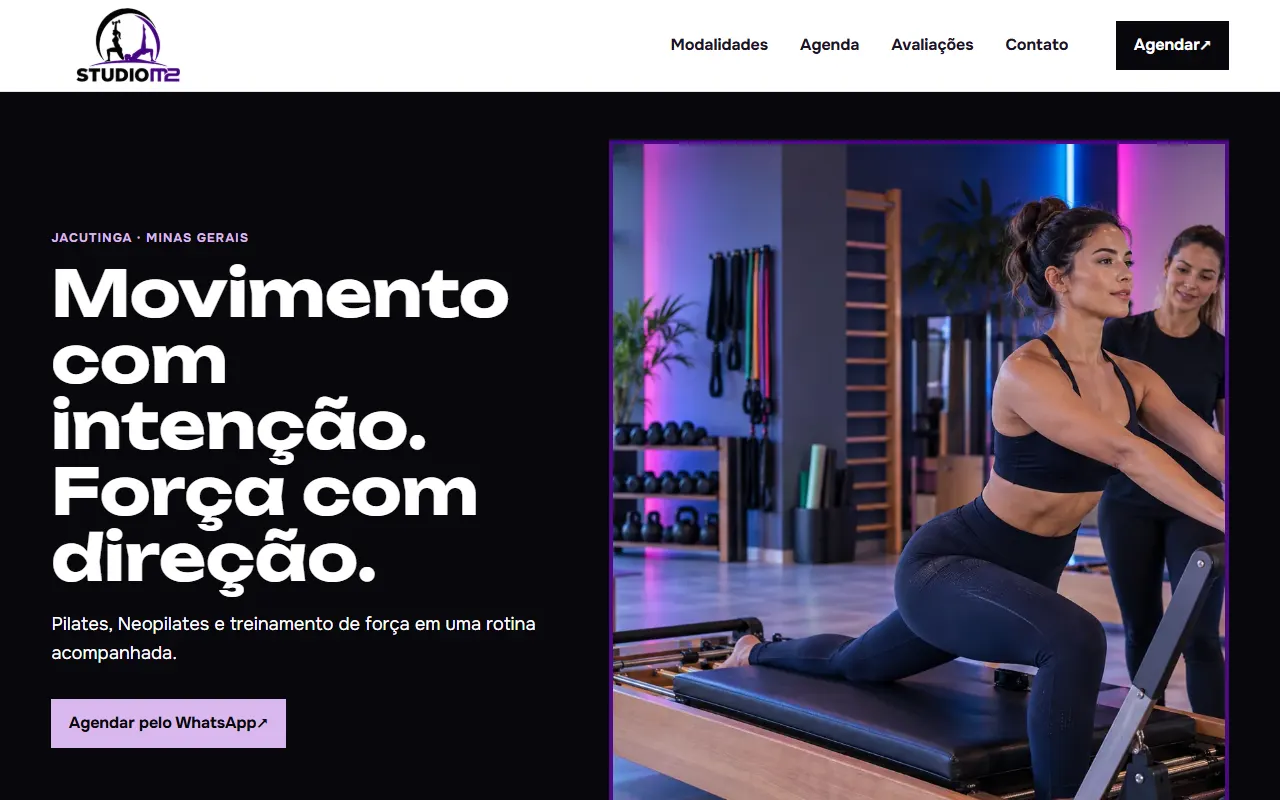
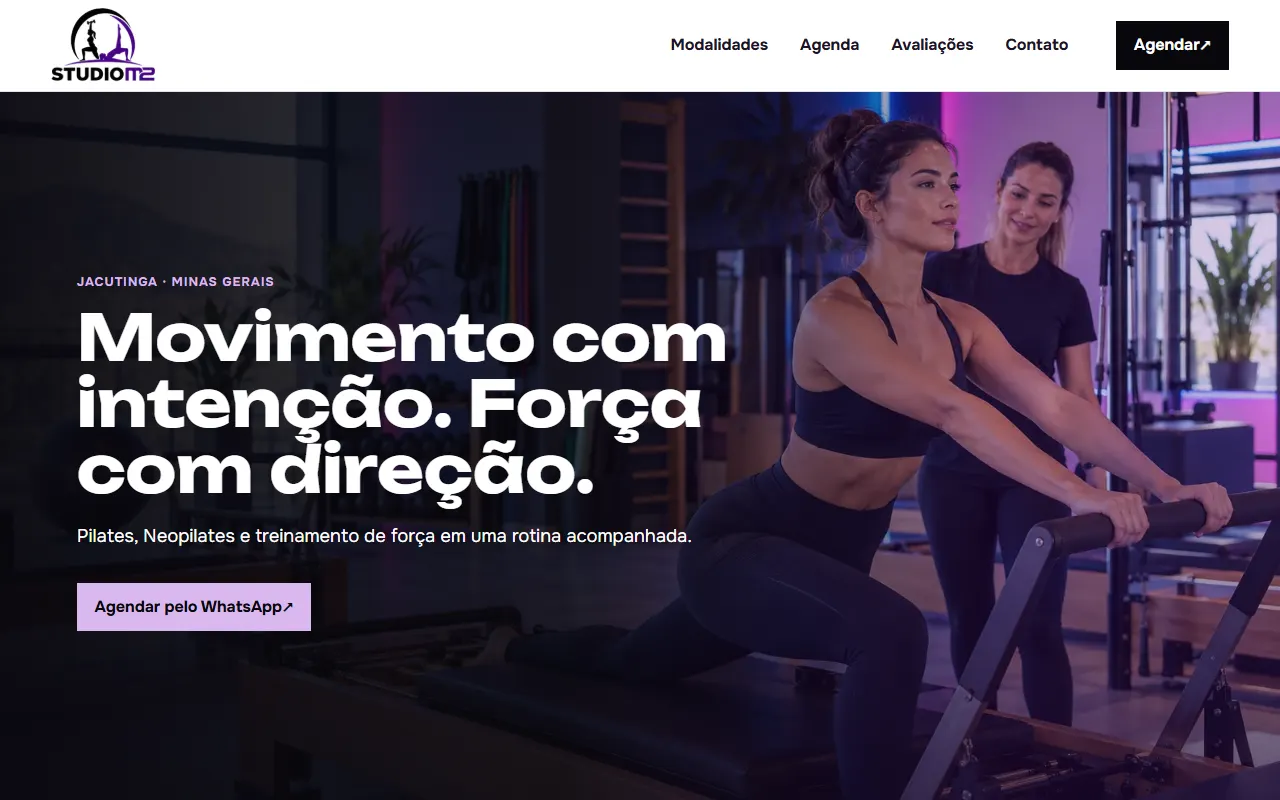
Shift studio pages toward LP column layouts

diff --git a/Site 08 - Clinica Physiopremium Fisioterapia e Pilates/assets/css/style.css b/Site 08 - Clinica Physiopremium Fisioterapia e Pilates/assets/css/style.css
@@ -804,3 +804,81 @@ summary:focus-visible {
     grid-template-columns: 1fr;
   }
 }
+
+/* LP column pass: more like a classic landing page, less horizontal concept split. */
+.hero {
+  min-height: 0;
+  display: grid;
+  grid-template-columns: 1fr;
+  grid-template-rows: auto minmax(360px, 46svh);
+  background: #f7fbfb;
+}
+.hero-copy {
+  width: min(980px, 100%);
+  display: block;
+  padding: clamp(4rem, 7vw, 6rem) max(6vw, 32px) clamp(2rem, 4vw, 3rem);
+}
+.hero h1 {
+  max-width: 12ch;
+}
+.hero-copy > span {
+  max-width: 58ch;
+}
+.hero-visual {
+  min-height: 0;
+  padding: 0 max(6vw, 32px) clamp(2rem, 4vw, 3rem);
+}
+.hero-visual img {
+  object-position: center 45%;
+}
+.award {
+  left: max(8vw, 48px);
+  bottom: clamp(2rem, 4vw, 3rem);
+  width: min(22rem, 44%);
+}
+.credibility {
+  grid-template-columns: repeat(3, 1fr) auto;
+}
+.modalities .section-head {
+  grid-template-columns: 1fr;
+  max-width: 900px;
+  margin-inline: auto;
+  text-align: center;
+}
+.modalities .section-head h2 {
+  margin-inline: auto;
+}
+@media (max-width: 900px) {
+  .hero {
+    grid-template-rows: auto minmax(320px, 38svh);
+  }
+  .hero-visual {
+    padding-inline: 1.4rem;
+  }
+  .award {
+    left: 2rem;
+    width: min(19rem, calc(100% - 4rem));
+  }
+  .credibility {
+    grid-template-columns: 1fr 1fr;
+  }
+}
+@media (max-width: 560px) {
+  .hero {
+    grid-template-rows: auto minmax(280px, 34svh);
+  }
+  .hero-copy {
+    padding: 3rem 1.4rem 1.5rem;
+  }
+  .hero-visual {
+    padding-bottom: 1.4rem;
+  }
+  .award {
+    left: 2rem;
+    right: 2rem;
+    width: auto;
+  }
+  .credibility {
+    grid-template-columns: 1fr;
+  }
+}

diff --git a/Site 03 - Espaço Saúde Jessica Drey/assets/css/style.css b/Site 03 - Espaço Saúde Jessica Drey/assets/css/style.css
@@ -105,3 +105,76 @@
     grid-column:auto;
   }
 }
+
+/* LP column pass: closer to Sites 01/10, with a vertical sales narrative. */
+.hero{
+  min-height:calc(100svh - 86px);
+  display:flex;
+  align-items:center;
+  background:var(--plum);
+}
+.hero-media{
+  position:absolute;
+  inset:0;
+  grid-column:auto;
+  min-height:0;
+}
+.hero-shade{
+  display:block;
+  background:linear-gradient(90deg,rgba(41,7,31,.92) 0%,rgba(41,7,31,.72) 42%,rgba(41,7,31,.24) 78%),linear-gradient(0deg,rgba(41,7,31,.7),transparent 55%);
+}
+.hero-copy{
+  position:relative;
+  z-index:2;
+  width:min(880px,92%);
+  display:block;
+  background:transparent;
+  padding:clamp(4rem,9vw,8rem) max(6vw,32px);
+}
+.hero h1{
+  max-width:10.5ch;
+}
+.modalities{
+  padding-top:clamp(5rem,8vw,7rem);
+}
+.section-intro{
+  grid-template-columns:1fr;
+  max-width:780px;
+  gap:1rem;
+  margin-inline:auto;
+  text-align:center;
+}
+.section-intro h2{
+  margin-inline:auto;
+}
+.section-intro>p:last-child{
+  margin-inline:auto;
+}
+.modality-index{
+  max-width:980px;
+  margin:4rem auto 0;
+}
+.modality-index article{
+  grid-template-columns:9rem 1fr;
+  gap:1.5rem;
+}
+.modality-index article p{
+  grid-column:2;
+}
+@media(max-width:900px){
+  .hero{
+    min-height:calc(100svh - 76px);
+  }
+  .hero-media{
+    position:absolute;
+    min-height:0;
+  }
+}
+@media(max-width:560px){
+  .hero{
+    min-height:calc(100svh - 76px);
+  }
+  .hero-copy{
+    padding:3.5rem 22px;
+  }
+}

diff --git a/Site 06 - Studio M2 Jacutinga/assets/css/style.css b/Site 06 - Studio M2 Jacutinga/assets/css/style.css
@@ -102,3 +102,74 @@
     font-size:clamp(2.4rem,11vw,3.45rem);
   }
 }
+
+/* LP column pass: full campaign hero and vertical conversion flow. */
+.hero{
+  height:min(790px,calc(100svh - 92px));
+  min-height:620px;
+  display:flex;
+  align-items:center;
+  padding:0;
+  background:var(--black);
+}
+.hero picture{
+  position:absolute;
+  inset:0;
+  grid-column:auto;
+  min-height:0;
+  border:0;
+}
+.hero picture img{
+  object-position:66% center;
+}
+.hero-shade{
+  display:block;
+  background:linear-gradient(90deg,rgba(9,7,13,.96) 0%,rgba(9,7,13,.78) 44%,rgba(75,10,133,.22) 78%),linear-gradient(0deg,rgba(9,7,13,.64),transparent 58%);
+}
+.hero-copy{
+  position:relative;
+  z-index:2;
+  width:min(850px,92%);
+  padding:clamp(4rem,8vw,7rem) max(6vw,32px);
+}
+.hero h1{
+  max-width:12ch;
+}
+.modalities header{
+  grid-template-columns:1fr;
+  max-width:760px;
+  margin-inline:auto;
+  text-align:center;
+}
+.modalities h2{
+  margin-inline:auto;
+}
+.modalities article{
+  max-width:980px;
+  margin-inline:auto;
+  grid-template-columns:1fr auto;
+}
+.modalities article>p{
+  max-width:60ch;
+}
+@media(max-width:980px){
+  .hero{
+    height:calc(100svh - 92px);
+    min-height:620px;
+  }
+  .hero picture{
+    position:absolute;
+  }
+}
+@media(max-width:600px){
+  .hero{
+    height:calc(100svh - 78px);
+    min-height:620px;
+  }
+  .hero-copy{
+    padding:3rem 22px;
+  }
+  .modalities article{
+    grid-template-columns:1fr;
+  }
+}

diff --git a/Site 07 - Rama Pilates/assets/css/style.css b/Site 07 - Rama Pilates/assets/css/style.css
@@ -113,3 +113,75 @@
     bottom:14px;
   }
 }
+
+/* LP column pass: Site 01 style hero with a clearer vertical journey below. */
+.hero{
+  height:min(790px,calc(100svh - 88px));
+  min-height:620px;
+  display:flex;
+  align-items:center;
+  background:var(--deep);
+}
+.hero picture{
+  position:absolute;
+  inset:0;
+  grid-column:auto;
+  grid-row:auto;
+}
+.hero picture img{
+  object-position:66% center;
+}
+.hero-overlay{
+  display:block;
+  background:linear-gradient(90deg,rgba(3,37,80,.95) 0%,rgba(3,37,80,.74) 45%,rgba(3,37,80,.18) 78%),linear-gradient(0deg,rgba(3,37,80,.54),transparent 58%);
+}
+.hero-copy{
+  position:relative;
+  z-index:2;
+  width:min(860px,92%);
+  display:block;
+  padding:clamp(4rem,8vw,7rem) max(6vw,32px);
+}
+.hero-copy>span{
+  display:block;
+  max-width:48ch;
+}
+.hero h1{
+  max-width:11.5ch;
+}
+.hero-caption{
+  color:var(--deep);
+}
+.journey header{
+  grid-template-columns:1fr;
+  max-width:760px;
+  text-align:center;
+  margin-inline:auto;
+}
+.journey h2{
+  margin-inline:auto;
+}
+.journey ol{
+  max-width:1040px;
+  margin-inline:auto;
+}
+@media(max-width:960px){
+  .hero{
+    height:calc(100svh - 88px);
+    min-height:620px;
+    grid-template-columns:none;
+    grid-template-rows:none;
+  }
+  .hero picture{
+    position:absolute;
+  }
+}
+@media(max-width:580px){
+  .hero{
+    height:calc(100svh - 76px);
+    min-height:620px;
+  }
+  .hero-copy{
+    padding:3rem 22px;
+  }
+}

diff --git a/Site 04 - Lótus FisioPilates/assets/css/style.css b/Site 04 - Lótus FisioPilates/assets/css/style.css
@@ -84,3 +84,58 @@
     font-size:clamp(2.6rem,12vw,3.7rem);
   }
 }
+
+/* LP column pass: image-led hero and stacked institutional rhythm. */
+.hero{
+  height:min(780px,calc(100svh - 88px));
+  min-height:620px;
+  display:flex;
+  align-items:center;
+  color:#fff;
+  background:var(--deep);
+}
+.hero picture{
+  position:absolute;
+  inset:0;
+  grid-row:auto;
+}
+.hero-overlay{
+  display:block;
+  background:linear-gradient(90deg,rgba(6,63,62,.92) 0%,rgba(6,63,62,.68) 48%,rgba(6,63,62,.14) 78%),linear-gradient(0deg,rgba(6,63,62,.58),transparent 58%);
+}
+.hero-copy{
+  position:relative;
+  z-index:2;
+  width:min(980px,92%);
+  display:grid;
+  grid-template-columns:1fr;
+  gap:1.4rem;
+  padding:clamp(4rem,8vw,7rem) max(6vw,32px);
+  color:#fff;
+}
+.hero-copy p{
+  color:#d7fffa;
+}
+.hero h1{
+  max-width:12ch;
+}
+.hero .button.light{
+  justify-self:start;
+  background:#fff;
+  color:var(--deep);
+}
+.care{
+  grid-template-columns:1fr;
+  max-width:1080px;
+  margin:auto;
+  gap:2rem;
+}
+.care>div:last-child{
+  max-width:70ch;
+}
+@media(max-width:560px){
+  .hero{
+    height:calc(100svh - 76px);
+    min-height:600px;
+  }
+}
